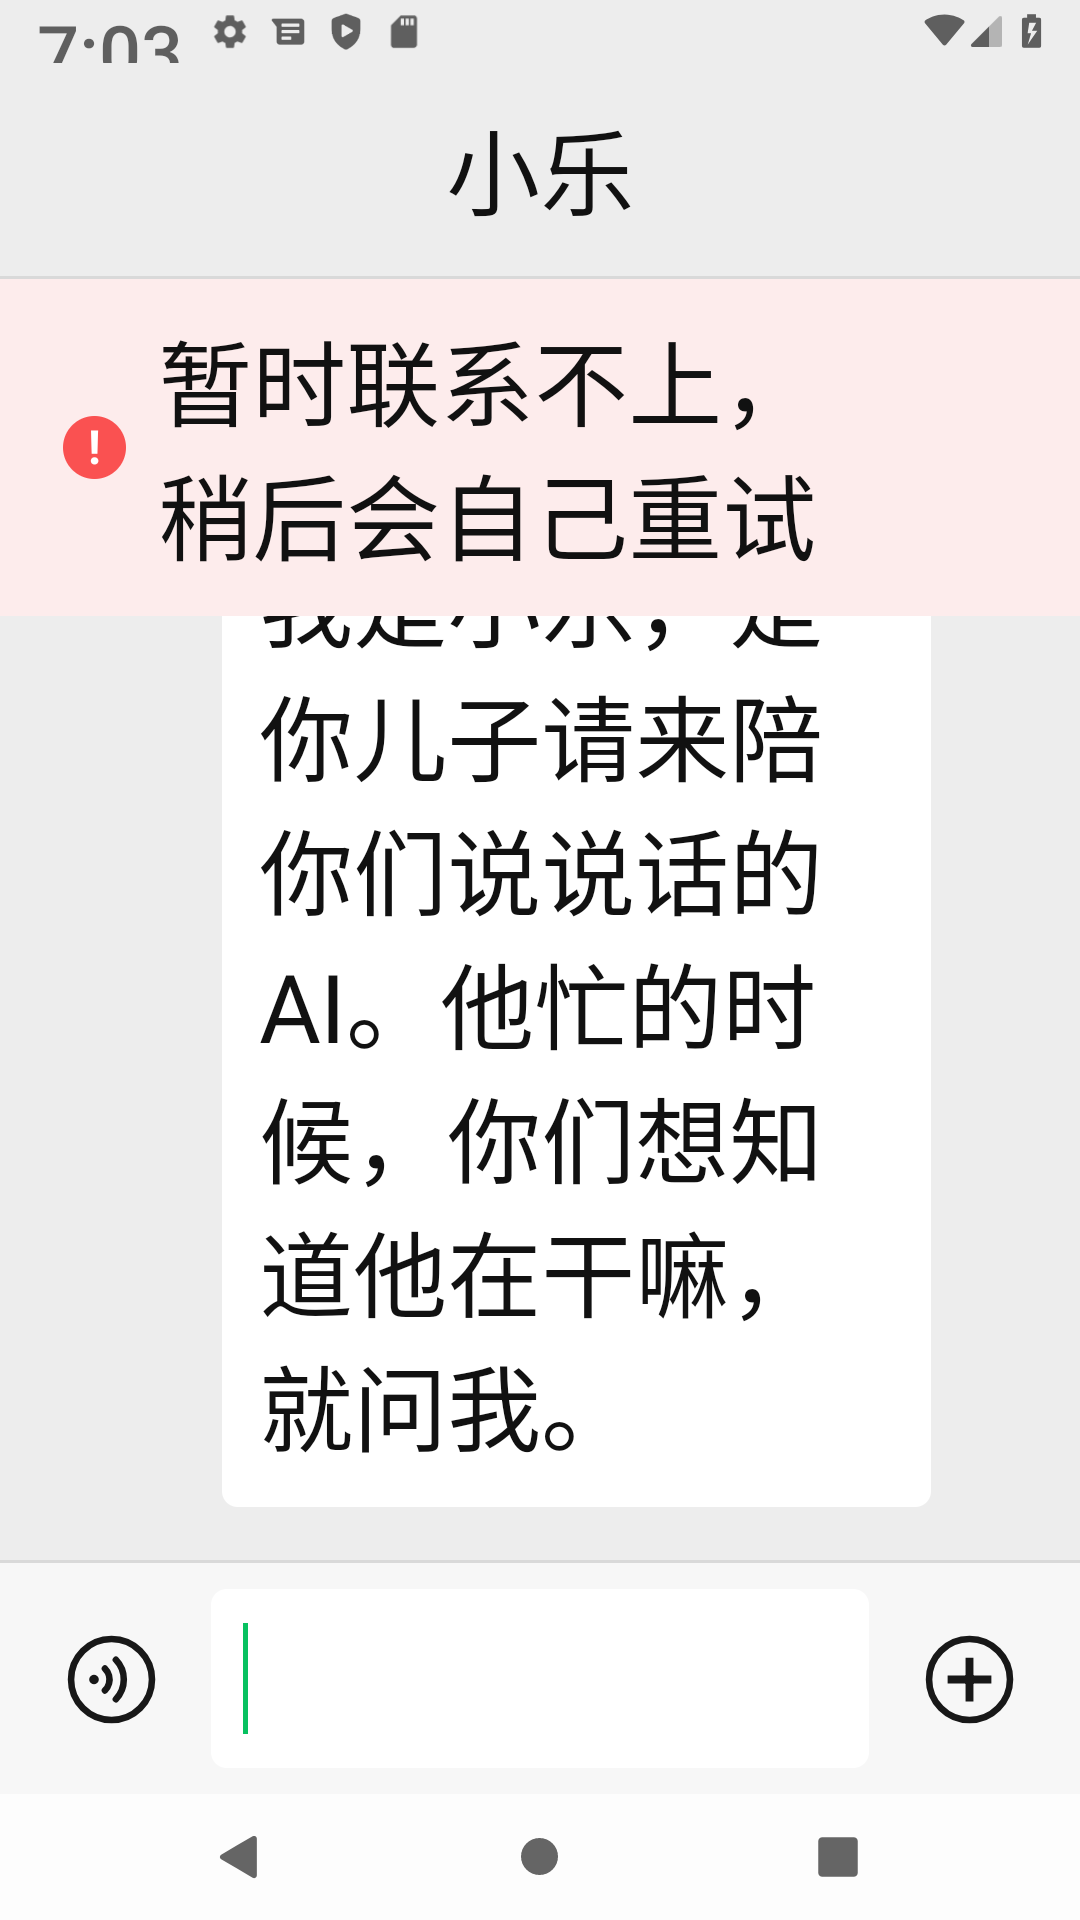
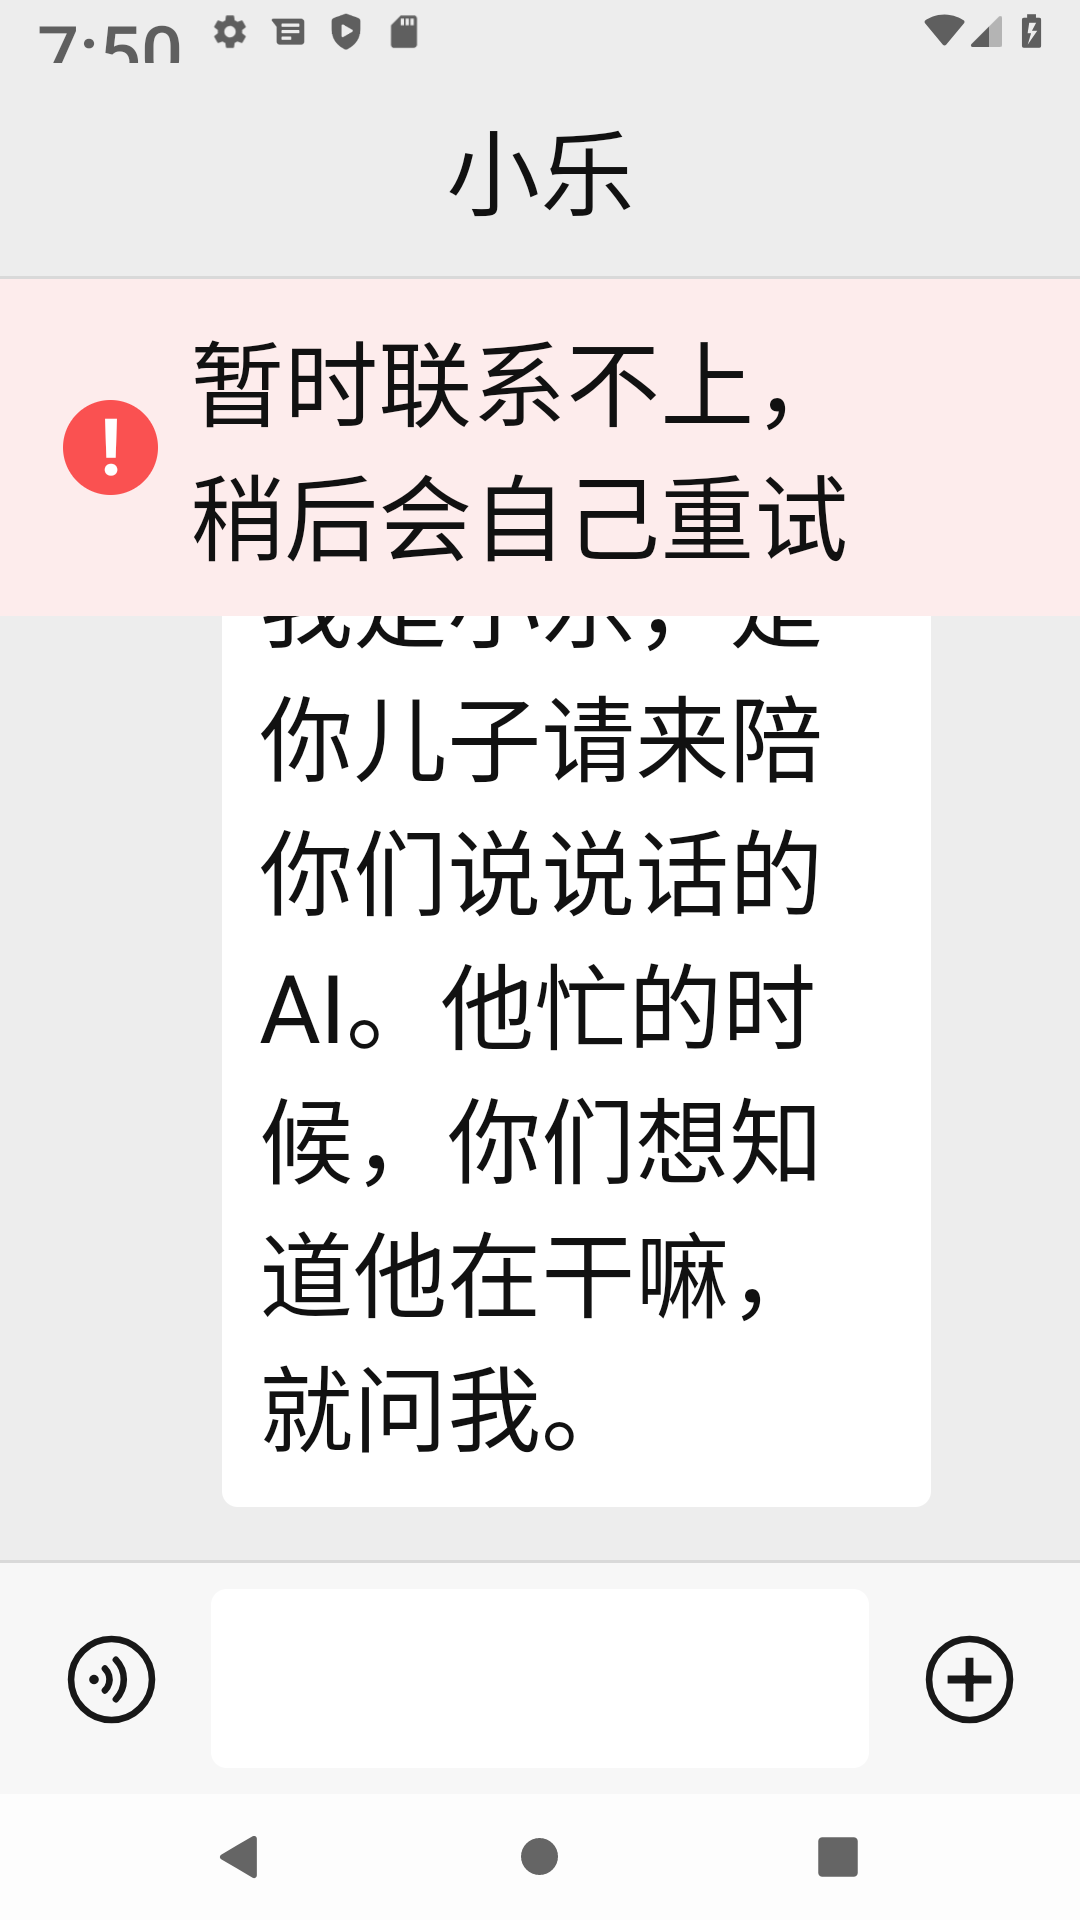
Connecting goes in the title, not the red strip, and the ! grows with the font
- statusText(CONNECTING) is null; headerTitle says 小乐(连接中…) while the
  first connection is made, as WeChat's 微信(连接中…) does, so a cold launch
  shows nothing red
- onDisconnected stays OFFLINE while retrying instead of flipping to
  CONNECTING every 5 s, so the strip no longer pumps or blinks
- unpaired strip reads 还没连上，/让孩子重发安装包: two lines at both font
  scales (nine characters wrapped at 2.0 beside the bigger !)
- RedBang circle and glyph both in sp: 24dp at 1.0, 36dp at 2.0, measured
- HeaderTest red first (3 failed), 56 green; launch, offline, unpaired and
  failed shots re-taken at 1.0 and 2.0, design-connecting-1.0.png removed

diff --git a/app/src/main/java/ai/openonion/whatcha/ChatScreen.kt b/app/src/main/java/ai/openonion/whatcha/ChatScreen.kt
@@ -87,7 +87,7 @@ fun ChatScreen(vm: ChatViewModel) {
 
     Box(Modifier.fillMaxSize().background(ChatBackground).safeDrawingPadding().imePadding()) {
         Column(Modifier.fillMaxSize()) {
-            Header(headerTitle(title, lines))
+            Header(headerTitle(title, lines, status))
             statusText(status)?.let { StatusStrip(it) }
             val hint = emptyHint(title, lines, status)
             if (hint != null) EmptyHint(hint, Modifier.weight(1f))
@@ -144,15 +144,20 @@ private fun EmptyHint(hint: String, modifier: Modifier) {
     }
 }
 
-// WeChat's own words while the other side is writing, so the parent knows to wait.
-internal fun headerTitle(name: String, lines: List<Line>): String =
-    if (lines.any { it.delivery == Delivery.SENT }) "对方正在输入..." else name
+// WeChat's own words: 「对方正在输入...」 while the other side is writing, 「微信(连接中…)」 in the title on a cold
+// launch, so the parent knows to wait and sees nothing red. CONNECTING only ever means that first connection.
+internal fun headerTitle(name: String, lines: List<Line>, status: Status): String = when {
+    lines.any { it.delivery == Delivery.SENT } -> "对方正在输入..."
+    status == Status.CONNECTING -> "$name(连接中…)"
+    else -> name
+}
 
-// The parent only ever sees a plain sentence, never an error code. One clause per line: at the largest
-// system font a clause of eight characters still fits the strip, a whole sentence wrapped mid-word.
+// The strip is only for trouble, as WeChat's is only for 网络不可用. The parent only ever sees a plain
+// sentence, never an error code. One clause per line: at the largest system font a clause of eight characters
+// still fits beside the !, a ninth wrapped onto a third line and a whole sentence wrapped mid-word.
 internal fun statusText(status: Status): String? = when (status) {
-    Status.UNPAIRED -> "还没有连上，\n请让孩子\n重新发一个安装包"
-    Status.CONNECTING -> "正在连接…"
+    Status.UNPAIRED -> "还没连上，\n让孩子重发安装包"
+    Status.CONNECTING -> null
     Status.ONLINE -> null
     Status.OFFLINE -> "暂时联系不上，\n稍后会自己重试"
 }
@@ -265,13 +270,14 @@ private fun DeliveryMark(delivery: Delivery, onRetry: () -> Unit) {
     }
 }
 
-// WeChat's red circled !. The glyph is sized in dp, not sp: at the largest system font an sp glyph
-// outgrew the 24dp circle and read as a white bar (sending-failed-2.0.png before this).
+// WeChat's red circled !. Circle and glyph are both in sp, so they grow with the system font and keep their
+// ratio: 24dp at 1.0, ~36dp at the largest font, still inside the 60dp delivery box and about the height
+// of the strip's text. (A dp circle with an sp glyph read as a white bar; a dp pair stayed tiny beside big text.)
 @Composable
 private fun RedBang() {
-    val glyph = with(LocalDensity.current) { 18.dp.toSp() }
-    Box(Modifier.size(24.dp).background(Color(0xFFFA5151), CircleShape), contentAlignment = Alignment.Center) {
-        Text("!", style = TextStyle(fontSize = glyph, color = Color.White, fontWeight = FontWeight.Bold))
+    val circle = with(LocalDensity.current) { 24.sp.toDp() }
+    Box(Modifier.size(circle).background(Color(0xFFFA5151), CircleShape), contentAlignment = Alignment.Center) {
+        Text("!", style = TextStyle(fontSize = 18.sp, color = Color.White, fontWeight = FontWeight.Bold))
     }
 }
 

diff --git a/app/src/test/java/ai/openonion/whatcha/HeaderTest.kt b/app/src/test/java/ai/openonion/whatcha/HeaderTest.kt
@@ -9,19 +9,27 @@ class HeaderTest {
 
     @Test
     fun whileTheAgentWorksOnAnAnswerTheTitleSaysSoLikeWeChat() {
-        assertEquals("对方正在输入...", headerTitle("小乐", listOf(asked(Delivery.SENT))))
+        assertEquals("对方正在输入...", headerTitle("小乐", listOf(asked(Delivery.SENT)), Status.ONLINE))
     }
 
     @Test
     fun otherwiseTheTitleIsTheAgentsName() {
-        assertEquals("小乐", headerTitle("小乐", listOf(asked(Delivery.DONE))))
-        assertEquals("小乐", headerTitle("小乐", listOf(asked(Delivery.QUEUED))))
-        assertEquals("小乐", headerTitle("小乐", emptyList()))
+        assertEquals("小乐", headerTitle("小乐", listOf(asked(Delivery.DONE)), Status.ONLINE))
+        assertEquals("小乐", headerTitle("小乐", listOf(asked(Delivery.QUEUED)), Status.ONLINE))
+        assertEquals("小乐", headerTitle("小乐", emptyList(), Status.ONLINE))
+        assertEquals("小乐", headerTitle("小乐", emptyList(), Status.OFFLINE))
     }
 
     @Test
     fun aFailedMessageIsNotBeingAnswered() {
-        assertEquals("小乐", headerTitle("小乐", listOf(asked(Delivery.FAILED))))
+        assertEquals("小乐", headerTitle("小乐", listOf(asked(Delivery.FAILED)), Status.ONLINE))
+    }
+
+    // WeChat's cold launch says 「微信(连接中…)」 in the title and shows nothing red; a reply on its way still wins.
+    @Test
+    fun whileConnectingTheTitleSaysSoLikeWeChat() {
+        assertEquals("小乐(连接中…)", headerTitle("小乐", emptyList(), Status.CONNECTING))
+        assertEquals("对方正在输入...", headerTitle("小乐", listOf(asked(Delivery.SENT)), Status.CONNECTING))
     }
 
     // Each clause on its own line: at the largest system font a status sentence wrapped mid-word (自己|重试, 重新|发一个安装包).
@@ -30,14 +38,17 @@ class HeaderTest {
         assertEquals("暂时联系不上，\n稍后会自己重试", statusText(Status.OFFLINE))
     }
 
+    // Two clauses, the second eight characters: at the largest font the text column beside the 36dp ! is 315dp,
+    // and nine characters of 35dp wrapped the last one onto a third line. Two lines at both scales, not a poem.
     @Test
     fun theUnpairedSentenceBreaksIntoShortClauses() {
-        assertEquals("还没有连上，\n请让孩子\n重新发一个安装包", statusText(Status.UNPAIRED))
+        assertEquals("还没连上，\n让孩子重发安装包", statusText(Status.UNPAIRED))
     }
 
+    // The strip is only for trouble, as WeChat's is only for 网络不可用; connecting is said in the title.
     @Test
     fun nothingToSayWhileOnline() {
         assertNull(statusText(Status.ONLINE))
-        assertEquals("正在连接…", statusText(Status.CONNECTING))
+        assertNull(statusText(Status.CONNECTING))
     }
 }

diff --git a/app/src/main/java/ai/openonion/whatcha/ChatViewModel.kt b/app/src/main/java/ai/openonion/whatcha/ChatViewModel.kt
@@ -159,12 +159,12 @@ class ChatViewModel(app: Application) : AndroidViewModel(app), AgentLink.Listene
         save(_lines.value.failOldest(message))
     }
 
+    // Stays OFFLINE while retrying: the strip must not appear and vanish every 5 s. onConnected sets ONLINE.
     override fun onDisconnected(reason: String) {
         Log.w(TAG, "disconnected: $reason")
         _status.value = Status.OFFLINE
         viewModelScope.launch {
             delay(RECONNECT_DELAY_MS)
-            _status.value = Status.CONNECTING
             link?.open()
         }
     }
